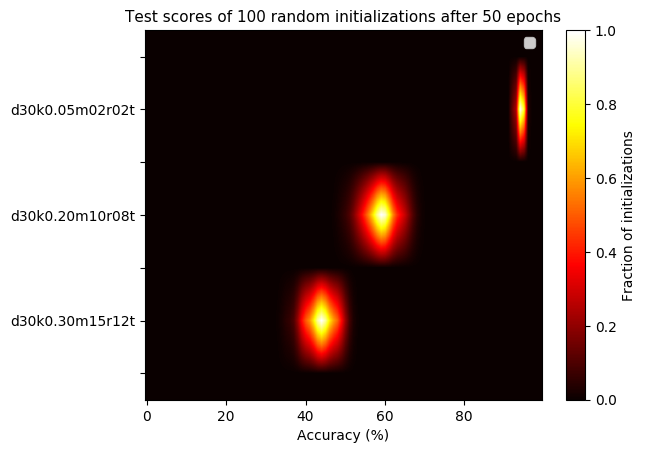
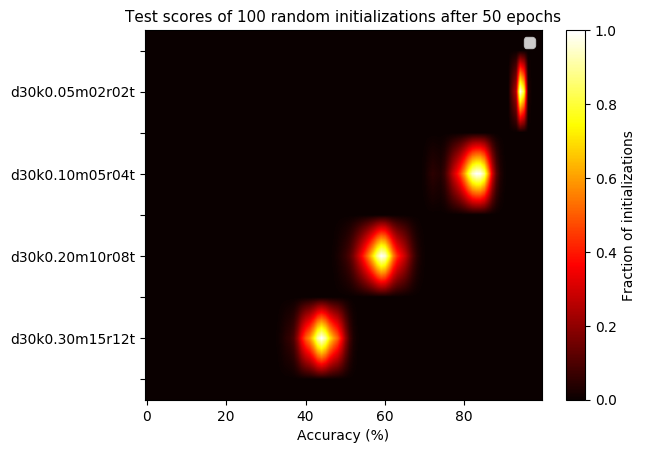
Trying fat distiller

diff --git a/src/config/D_expt.py b/src/config/D_expt.py
@@ -29,35 +29,35 @@ class D_expt(Base):
             torch.nn.LeakyReLU(),
             torch.nn.BatchNorm2d(64),
             
-            # 14 -> 14
+            # 14 -> 7
             models.DistillationLayer(
                 interpreter = models.DenseNet(
                     headsize = 64,
                     bodysize = 128,
-                    tailsize = 64,
+                    tailsize = 128,
                     layers = 2,
-                    dropout = 0.2,
+                    dropout = 0.0,
                     bias = True
                 ),
                 summarizer = models.DenseNet(
-                    headsize = 64,
-                    bodysize = 32,
-                    tailsize = 8,
+                    headsize = 128,
+                    bodysize = 64,
+                    tailsize = 32,
                     layers = 2,
-                    dropout = 0.2,
+                    dropout = 0.0,
                     bias = True
                 ),
                 kernel = 3,
-                stride = 1,
+                stride = 2,
                 padding = 1
             ),
             
-            torch.nn.BatchNorm2d(8),
+            torch.nn.BatchNorm2d(32),
             
-            # 14 -> 7
+            # 7 -> 4
             models.DistillationLayer(
                 interpreter = models.DenseNet(
-                    headsize = 8,
+                    headsize = 32,
                     bodysize = 64,
                     tailsize = 64,
                     layers = 2,
@@ -66,35 +66,10 @@ class D_expt(Base):
                 ),
                 summarizer = models.DenseNet(
                     headsize = 64,
-                    bodysize = 32,
-                    tailsize = 16,
-                    layers = 2,
-                    dropout = 0.2,
-                    bias = True
-                ),
-                kernel = 3,
-                stride = 2,
-                padding = 1
-            ),
-            
-            torch.nn.BatchNorm2d(16),
-            
-            # 7 -> 4
-            models.DistillationLayer(
-                interpreter = models.DenseNet(
-                    headsize = 16,
-                    bodysize = 64,
-                    tailsize = 64,
-                    layers = 2,
-                    dropout = 0.1,
-                    bias = True
-                ),
-                summarizer = models.DenseNet(
-                    headsize = 64,
                     bodysize = 64,
                     tailsize = 32,
                     layers = 2,
-                    dropout = 0.2,
+                    dropout = 0.0,
                     bias = True
                 ),
                 kernel = 3,
@@ -111,7 +86,7 @@ class D_expt(Base):
                     bodysize = 64,
                     tailsize = 64,
                     layers = 2,
-                    dropout = 0.2,
+                    dropout = 0.0,
                     bias = True
                 ),
                 summarizer = models.DenseNet(
@@ -119,7 +94,7 @@ class D_expt(Base):
                     bodysize = 32,
                     tailsize = classes,
                     layers = 2,
-                    dropout = 0.2,
+                    dropout = 0.0,
                     bias = True
                 ),
                 kernel = 4,

diff --git a/src/analysis.py b/src/analysis.py
@@ -28,7 +28,7 @@ DATASETS = [
         [
             #"rand",
             "d30k0.05m02r02t",
-            #"d30k0.10m05r04t",
+            "d30k0.10m05r04t",
             "d30k0.20m10r08t",
             "d30k0.30m15r12t"
         ]
